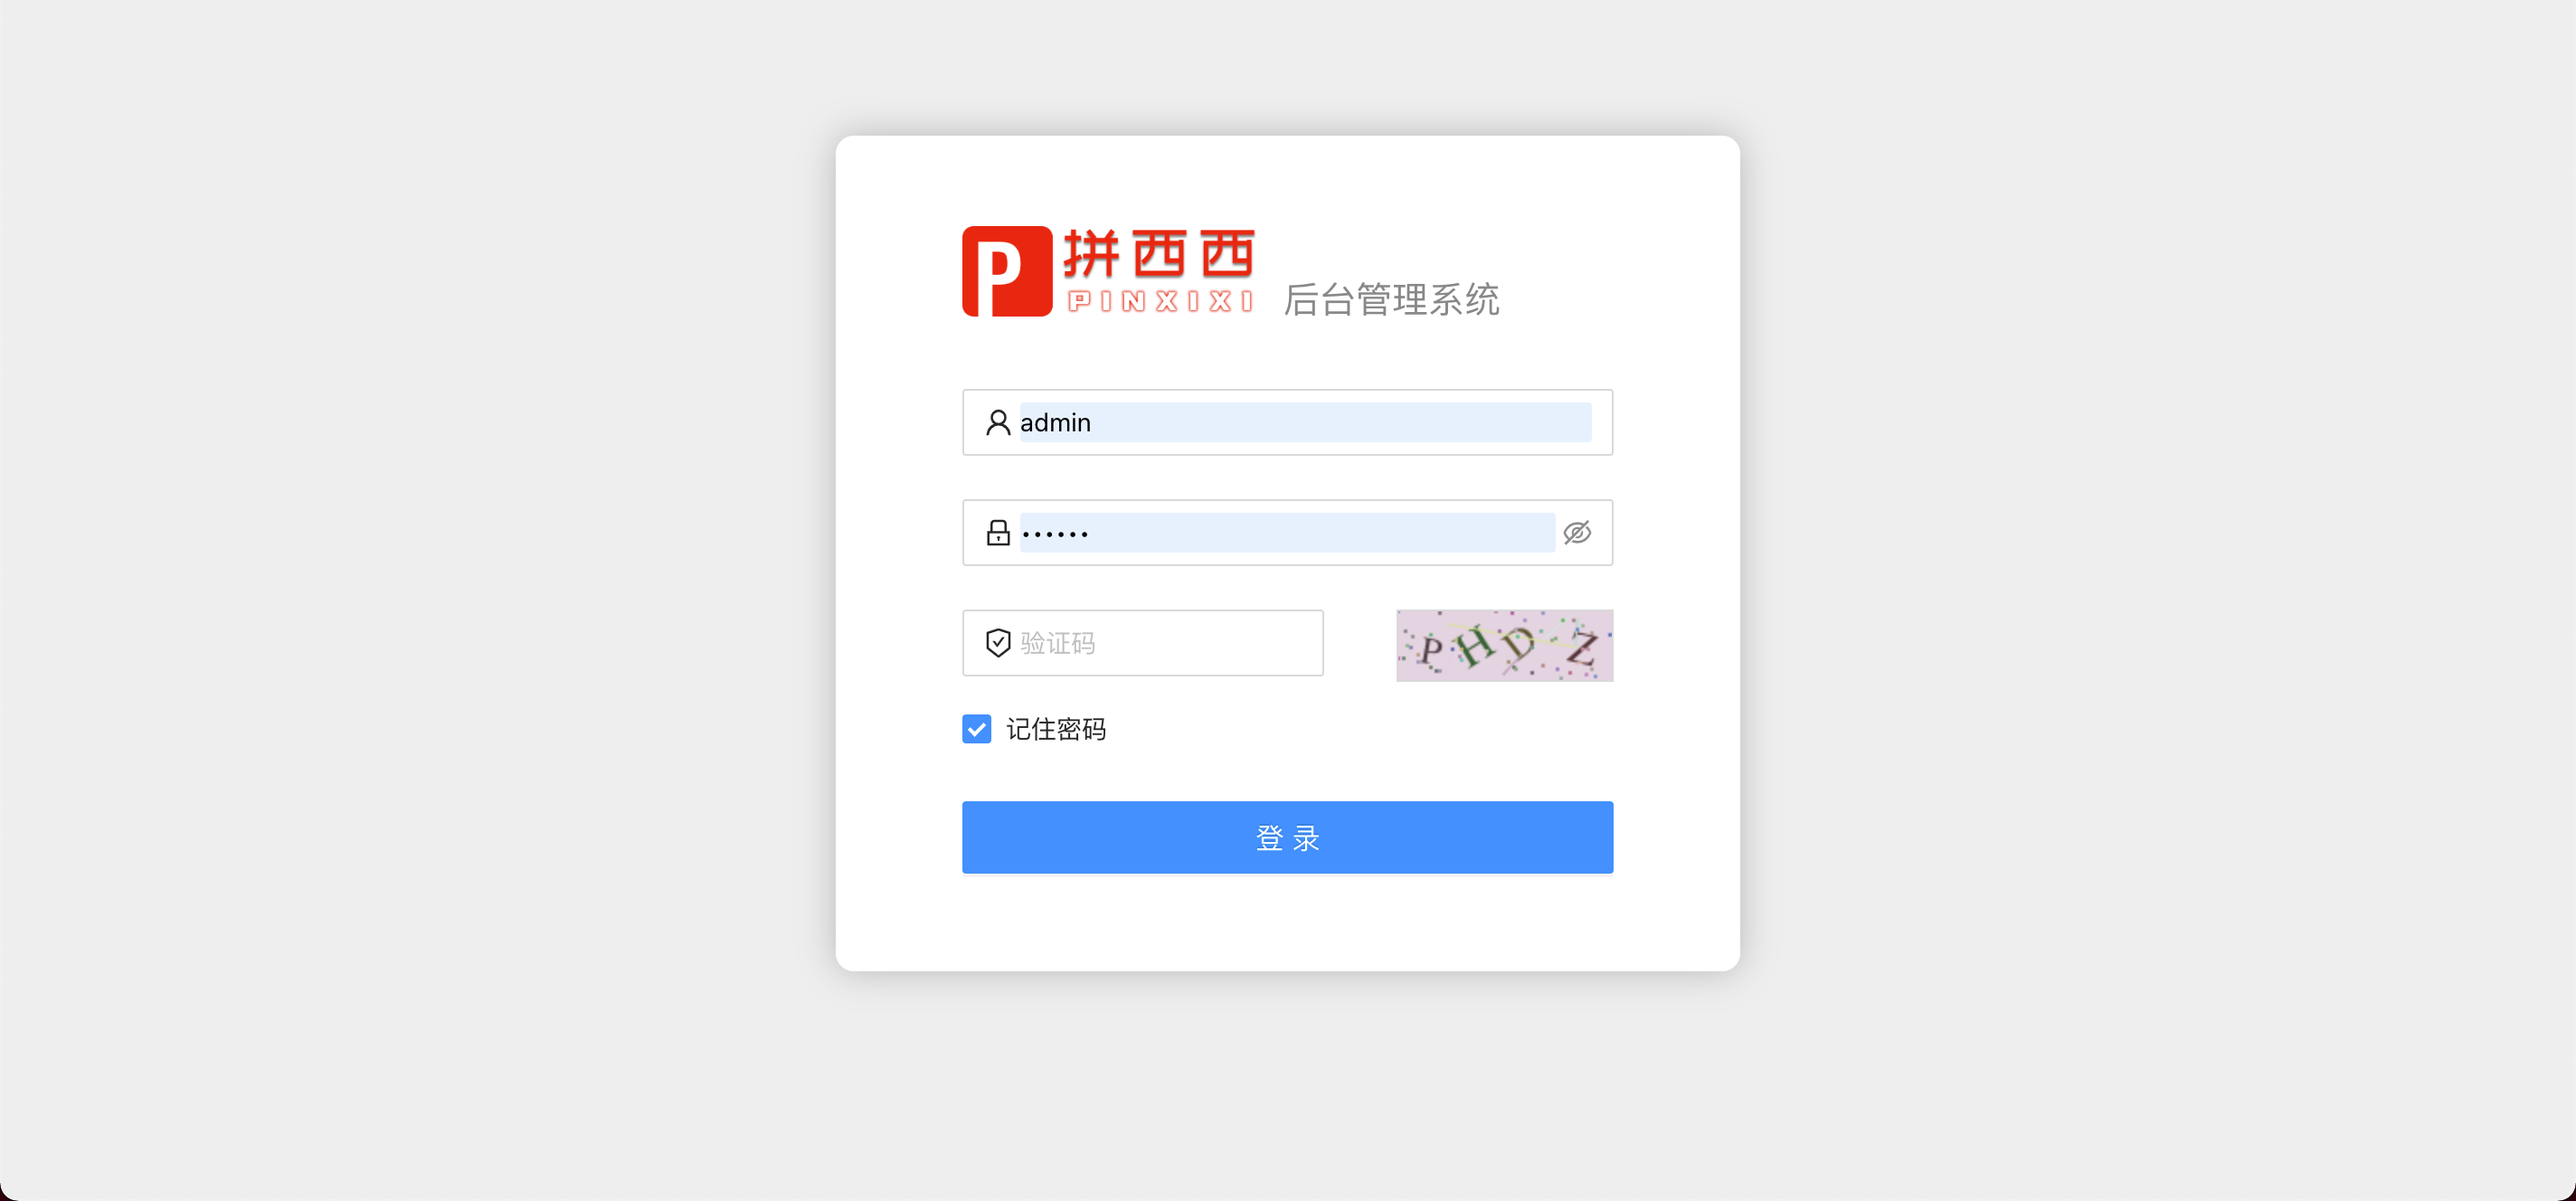
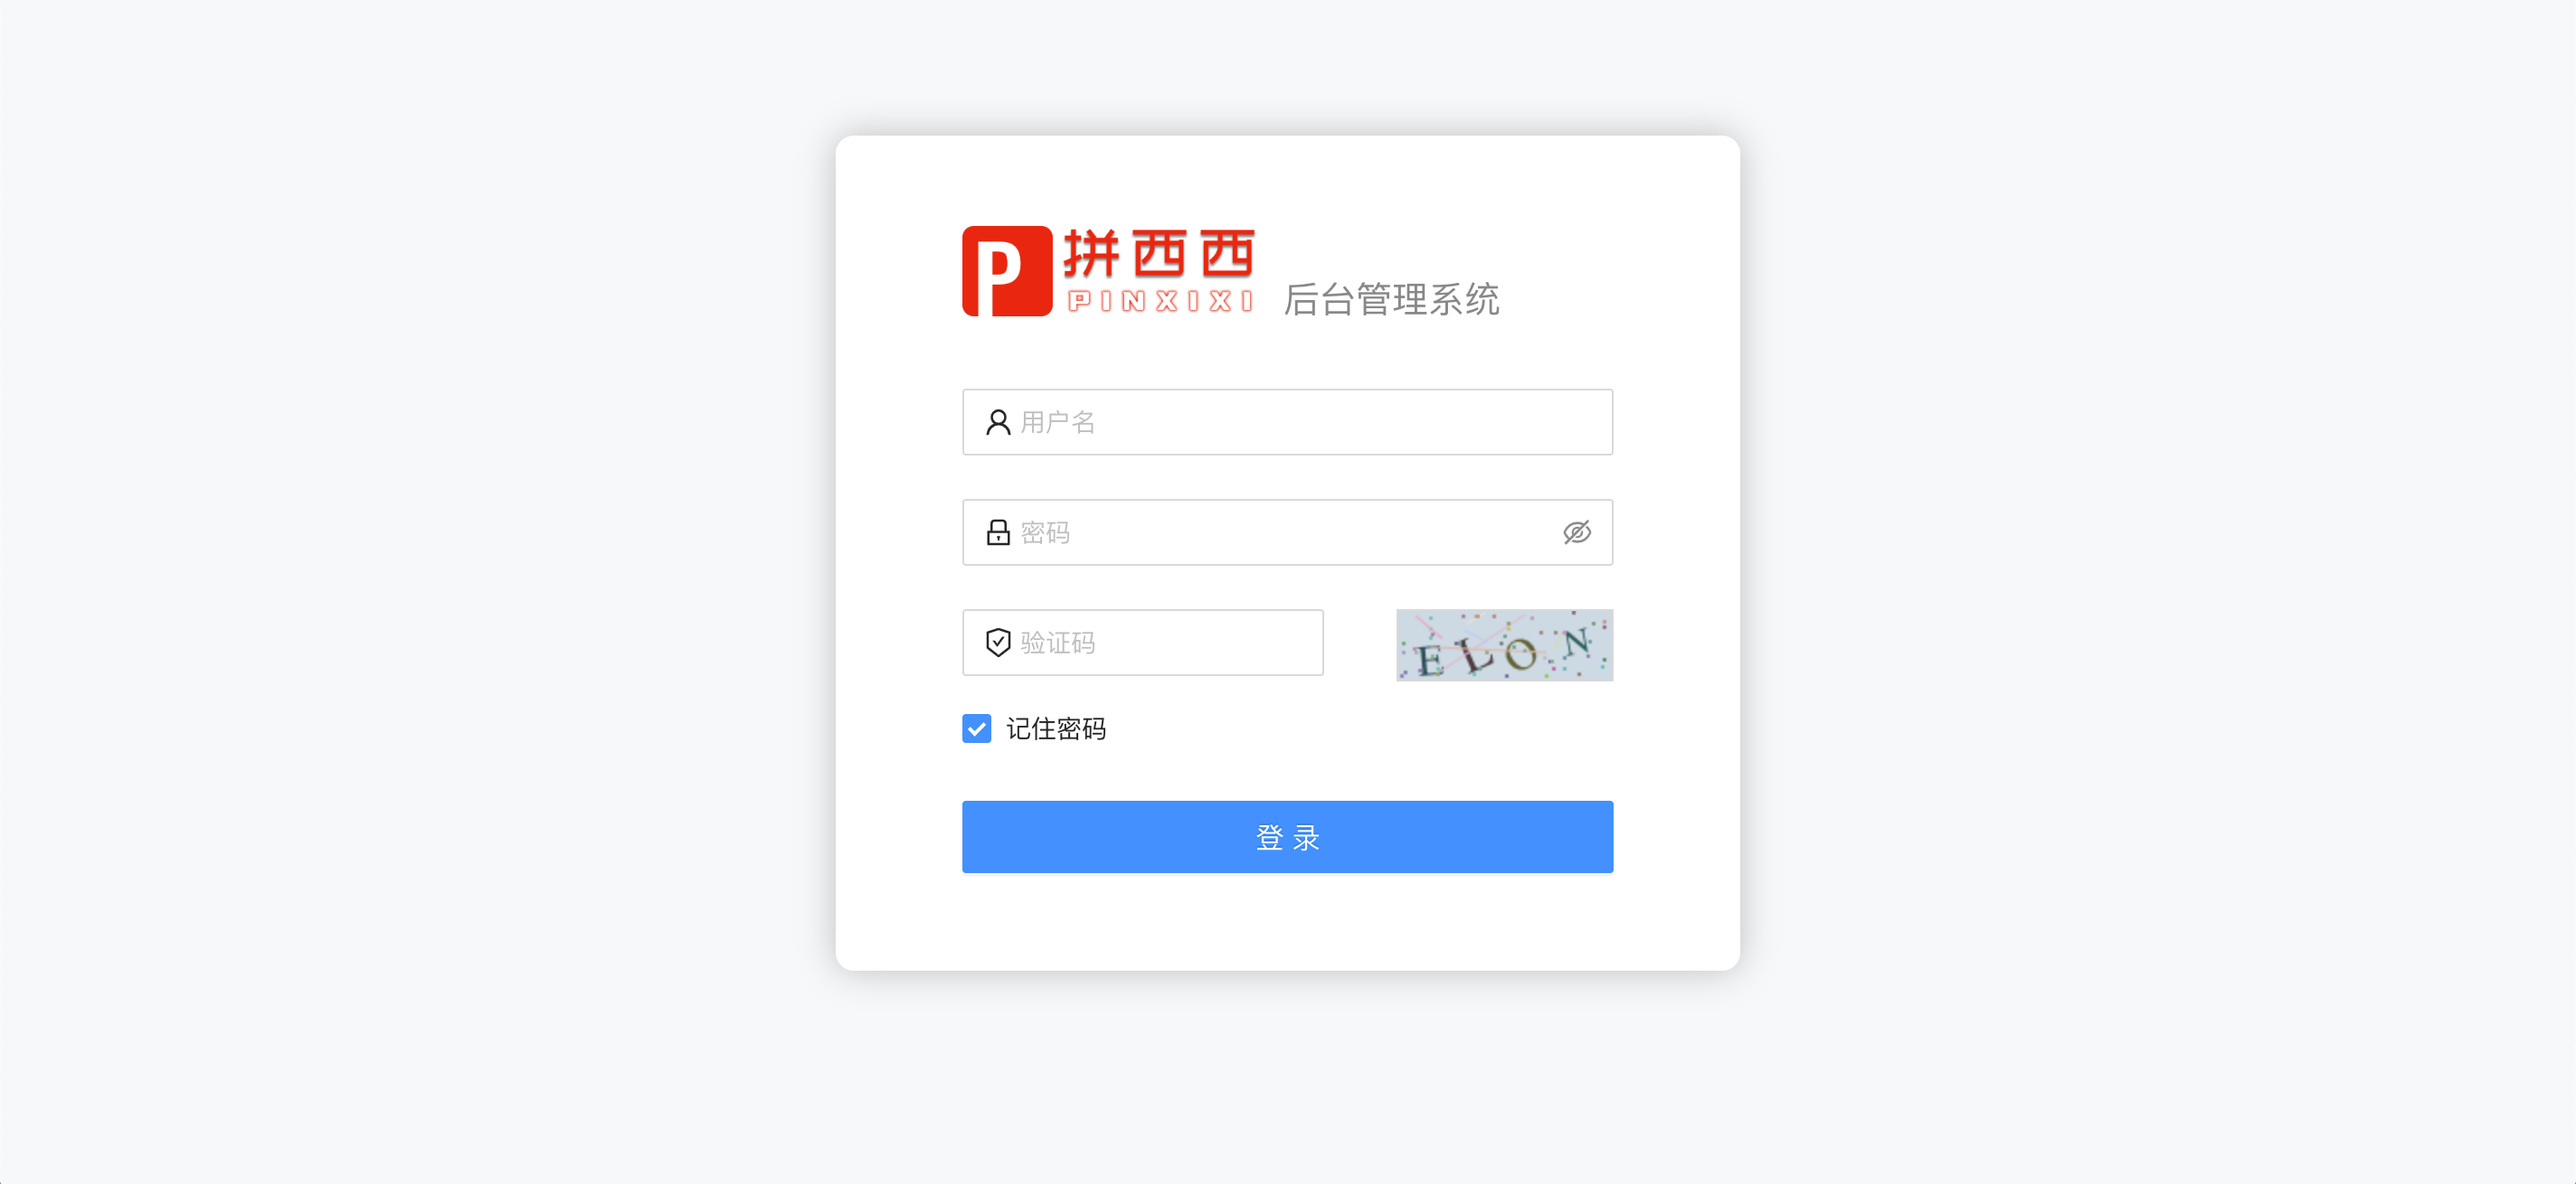
update

diff --git a/src/views/login/index.tsx b/src/views/login/index.tsx
@@ -19,6 +19,7 @@ const Login: FC = (): ReactElement => {
   const history = useHistory()
   const [form] = Form.useForm()
   const [verifyImgCode, setVerifyImgCode] = useState<string>()
+  const [loading, setLoading] = useState(false)
 
   useEffect(() => {
     setToken(null)
@@ -27,15 +28,21 @@ const Login: FC = (): ReactElement => {
     })
   }, [form])
 
-  const onVerifyCodeChange = (code: string) : void => {
+  const onVerifyCodeChange = (code: string): void => {
     setVerifyImgCode(code)
   }
 
   const onFinish = async (values: SubmitValues) => {
+    setLoading(true)
     const { redirect } = url.parse(history.location.search, true).query
-    const { data: { token } } = await login(values)
-    setToken(token)
-    history.push(redirect || '/dashboard')
+    try {
+      const { data: { token } } = await login(values)
+      setToken(token)
+      history.push(redirect || '/dashboard')
+      setLoading(false)
+    } catch (error) {
+      setLoading(false)
+    }
   }
 
   return (
@@ -59,12 +66,10 @@ const Login: FC = (): ReactElement => {
         </section>
         <Form.Item
           name="userName"
-          rules={[
-            {
-              required: true,
-              message: "请输入用户名",
-            },
-          ]}
+          rules={[{
+            required: true,
+            message: "请输入用户名",
+          },]}
         >
           <Input
             size="large"
@@ -74,12 +79,10 @@ const Login: FC = (): ReactElement => {
         </Form.Item>
         <Form.Item
           name="password"
-          rules={[
-            {
-              required: true,
-              message: "请输入密码",
-            },
-          ]}
+          rules={[{
+            required: true,
+            message: "请输入密码",
+          },]}
         >
           <Input.Password
             size="large"
@@ -88,19 +91,19 @@ const Login: FC = (): ReactElement => {
             iconRender={visible => (visible ? <EyeTwoTone /> : <EyeInvisibleOutlined />)}
           />
         </Form.Item>
-        <Form.Item style={{marginBottom:'10px'}}>
+        <Form.Item style={{ marginBottom: '10px' }}>
           <Input.Group className={styles.verify}>
             <Form.Item
-              style={{marginBottom:0}}
+              style={{ marginBottom: 0 }}
               name="verifyCode"
               rules={[
                 {
                   validator: (_, value) =>
                     !value
-                    ? Promise.reject(new Error('请输入验证码'))
-                    : value.toLocaleLowerCase() !== verifyImgCode?.toLocaleLowerCase()
-                    ? Promise.reject(new Error('验证码不正确'))
-                    : Promise.resolve() 
+                      ? Promise.reject(new Error('请输入验证码'))
+                      : value.toLocaleLowerCase() !== verifyImgCode?.toLocaleLowerCase()
+                        ? Promise.reject(new Error('验证码不正确'))
+                        : Promise.resolve()
                 },
               ]}>
               <Input
@@ -111,7 +114,7 @@ const Login: FC = (): ReactElement => {
                 prefix={<SafetyCertificateOutlined />}
               />
             </Form.Item>
-            <VerifyCode width={120} height={40} length={4} change={onVerifyCodeChange}/>
+            <VerifyCode width={120} height={40} length={4} change={onVerifyCodeChange} />
           </Input.Group>
         </Form.Item>
         <Form.Item name="remember" valuePropName="checked">
@@ -123,6 +126,7 @@ const Login: FC = (): ReactElement => {
             size="large"
             htmlType="submit"
             className="login-form-button"
+            loading={loading}
             block
           >
             登 录

diff --git a/src/api/index.ts b/src/api/index.ts
@@ -7,7 +7,7 @@ import http from '@/utils/request';
  * @returns 
  */
 export const login = (data?: any) => {
-  return http.post(`/admin/login`, data);
+  return http.post(`/admin/login`, data, { noLoading: true });
 };
 
 /**

diff --git a/src/views/login/index.module.less b/src/views/login/index.module.less
@@ -6,7 +6,7 @@
   display: flex;
   justify-content: center;
   align-items: center;
-  background-color: #eee;
+  background-color: #f7f8fa;
   .logo{
     display: flex;
     align-items: flex-end;
